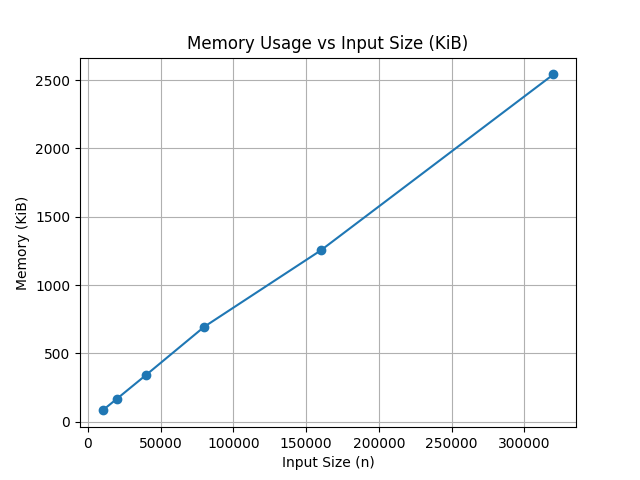
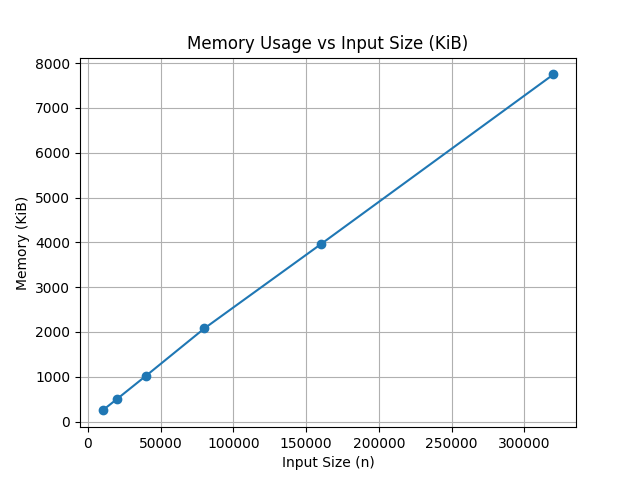
Merge Sort 구현

diff --git a/complexity-check/merge_sort.py b/complexity-check/merge_sort.py
@@ -1,0 +1,36 @@
+# Merge Sort Algorithm
+import random
+
+def merge_sort_gen_rnd_list(n):
+    arr = [random.randint(0, 100) for _ in range(n)]
+    merge_sort(arr)
+
+def merge(arr1, arr2):
+    result = []
+    
+    left_index = right_index = 0
+
+    while left_index < len(arr1) and right_index < len(arr2):
+        if arr1[left_index] <= arr2[right_index]:
+            result.append(arr1[left_index])
+            left_index += 1
+        else:
+            result.append(arr2[right_index])
+            right_index += 1
+
+    if left_index == len(arr1):
+        result += arr2[right_index:]
+    else:
+        result += arr1[left_index:]
+
+    return result
+
+def merge_sort(arr):
+    if len(arr) == 1:
+        return arr
+    
+    mid = len(arr) // 2
+    left = merge_sort(arr[:mid])
+    right = merge_sort(arr[mid:])
+
+    return merge(left, right)

diff --git a/week-2/merge-sort.py b/week-2/merge-sort.py
@@ -1,0 +1,33 @@
+# Merge Sort Algorithm
+
+def merge(arr1, arr2):
+    result = []
+    
+    left_index = right_index = 0
+
+    while left_index < len(arr1) and right_index < len(arr2):
+        if arr1[left_index] <= arr2[right_index]:
+            result.append(arr1[left_index])
+            left_index += 1
+        else:
+            result.append(arr2[right_index])
+            right_index += 1
+
+    if left_index == len(arr1):
+        result += arr2[right_index:]
+    else:
+        result += arr1[left_index:]
+
+    return result
+
+def merge_sort(arr):
+    if len(arr) == 1:
+        return arr
+    
+    mid = len(arr) // 2
+    left = merge_sort(arr[:mid])
+    right = merge_sort(arr[mid:])
+
+    return merge(left, right)
+
+print(merge_sort([1, 5, 2, 3, 6, 7, 2, 3, 4, 1, 5, 3, 5]))

diff --git a/complexity-check/complexity-check.py b/complexity-check/complexity-check.py
@@ -16,7 +16,8 @@ import matplotlib.pyplot as plt  # for plotting results (matplotlib.org)
 # from quick_sort import quick_sort_gen_rnd_list
 # from radix_sort import radix_sort_gen_rnd_list
 # from quick_sort_inplace import quick_sort_gen_rnd_list
-from heap_sort import heap_sort_gen_rnd_list 
+# from heap_sort import heap_sort_gen_rnd_list 
+from merge_sort import merge_sort_gen_rnd_list
 
 def measure(func, input_sizes):
     """
@@ -101,7 +102,7 @@ def main():
     #                 sieve[i] = False
     #     return [i for i, prime in enumerate(sieve) if prime and i >= 2]
 
-    times, mem_mib, mem_kib = measure(heap_sort_gen_rnd_list, input_sizes)
+    times, mem_mib, mem_kib = measure(merge_sort_gen_rnd_list, input_sizes)
     plot_results(input_sizes, times, mem_mib, mem_kib)
 
 
